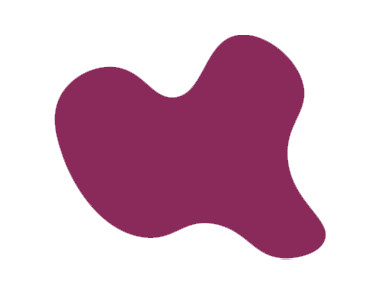
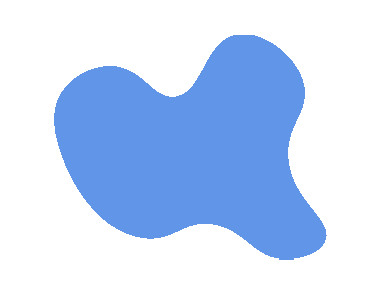
Who are we added

diff --git a/src/assets/styles/components/Who/_who.scss b/src/assets/styles/components/Who/_who.scss
@@ -1,0 +1,71 @@
+.who {
+    background-color: $a-purple;
+    color: #ffffffff;
+    font-family: $a-text;
+    font-size: 1.5rem;
+    padding: 20px;
+    text-align: justify;
+    position: relative;
+    overflow: hidden;
+    min-height: 30vh;
+    display: flex;
+    flex-direction: column;
+    justify-content: center;
+    align-items: center;
+
+    h3 {
+        font-family: $a-title;
+        color: $a-blue;
+        font-size: 2rem;
+        text-shadow: 0px 5px 5px rgba(0, 0, 0, 0.5);
+        margin: 20px 0;
+    }
+
+    p {
+        position: relative;
+        z-index: 1;
+    }
+
+    img {
+        position: absolute;
+        z-index: 0;
+        bottom: 0;
+        right: -10%;
+    }
+}
+
+/*===== ESTILOS MOBILE (OTHERS) - SM =====*/
+@media only screen and (min-width: 576px) {
+    .who img {
+        bottom: -10%;
+    }
+}
+
+/*===== ESTILOS TABLET - MD =====*/
+@media only screen and (min-width: 768px) {
+    .who img {
+        width: 35%;
+        right: 0;
+    }
+}
+
+
+/*===== ESTILOS LG =====*/
+@media only screen and (min-width: 992px) {
+    .who {
+        h3, p {
+            width: 80%;
+        }
+
+        img {
+            width: 25%;
+        }
+    }
+}
+
+/*===== ESTILOS XL =====*/
+@media only screen and (min-width: 1200px) {
+    .who img {
+        width: 20%;
+    }
+}

diff --git a/src/components/Who/Who.js b/src/components/Who/Who.js
@@ -2,7 +2,7 @@ import React from 'react'
 
 const Who = () => {
     return (
-        <div>
+        <div className='who'>
             <h3>¿Quiénes somos?</h3>
             <p>
             Lorem ipsum dolor sit amet, consectetur adipiscing elit. Nam congue ligula et ante fermentum vehicula. Sed elementum, est id ullamcorper efficitur, turpis augue sodales lorem, et sollicitudin mauris augue ut erat. Pellentesque et elit ligula. Donec elementum rutrum enim id gravida. In quis consectetur sapien. Proin quis urna non odio mollis pharetra et a urna. In laoreet molestie consequat. Nunc quis aliquam libero. Nunc tempor lectus et vestibulum porta. Ut in elit rutrum, tristique risus vel, ultrices sem.

diff --git a/src/assets/styles/components/_config.scss b/src/assets/styles/components/_config.scss
@@ -42,6 +42,7 @@ html {
     margin: 20px auto;
     margin-bottom: 0;
     width:fit-content;
+    box-shadow: 5px 5px 5px 0px rgba(0,0,0,0.5);
     @include a-transition;
 
 

diff --git a/src/assets/styles/style.scss b/src/assets/styles/style.scss
@@ -2,3 +2,4 @@
 @import './components/NavBar/navBar';
 @import './components/Banner/banner';
 @import './components/Description/description';
+@import './components/Who/who';
